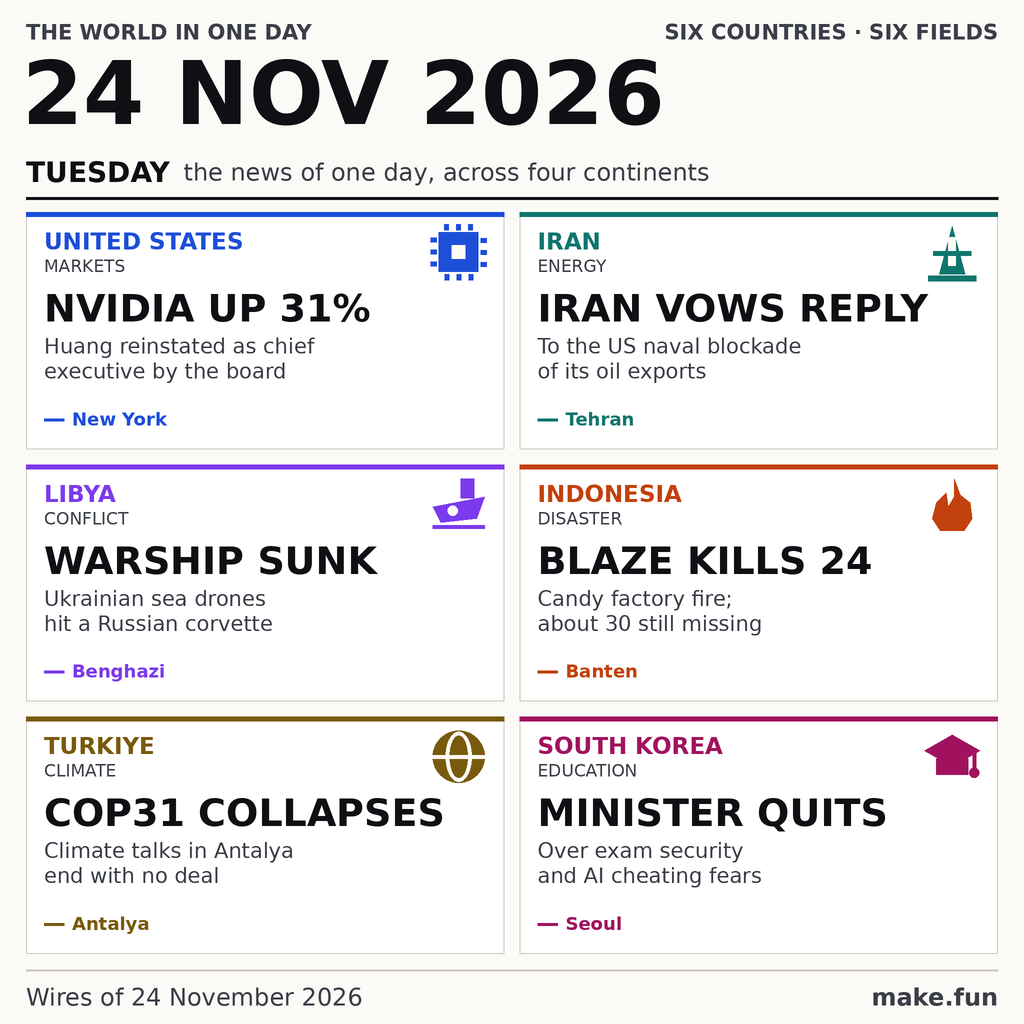
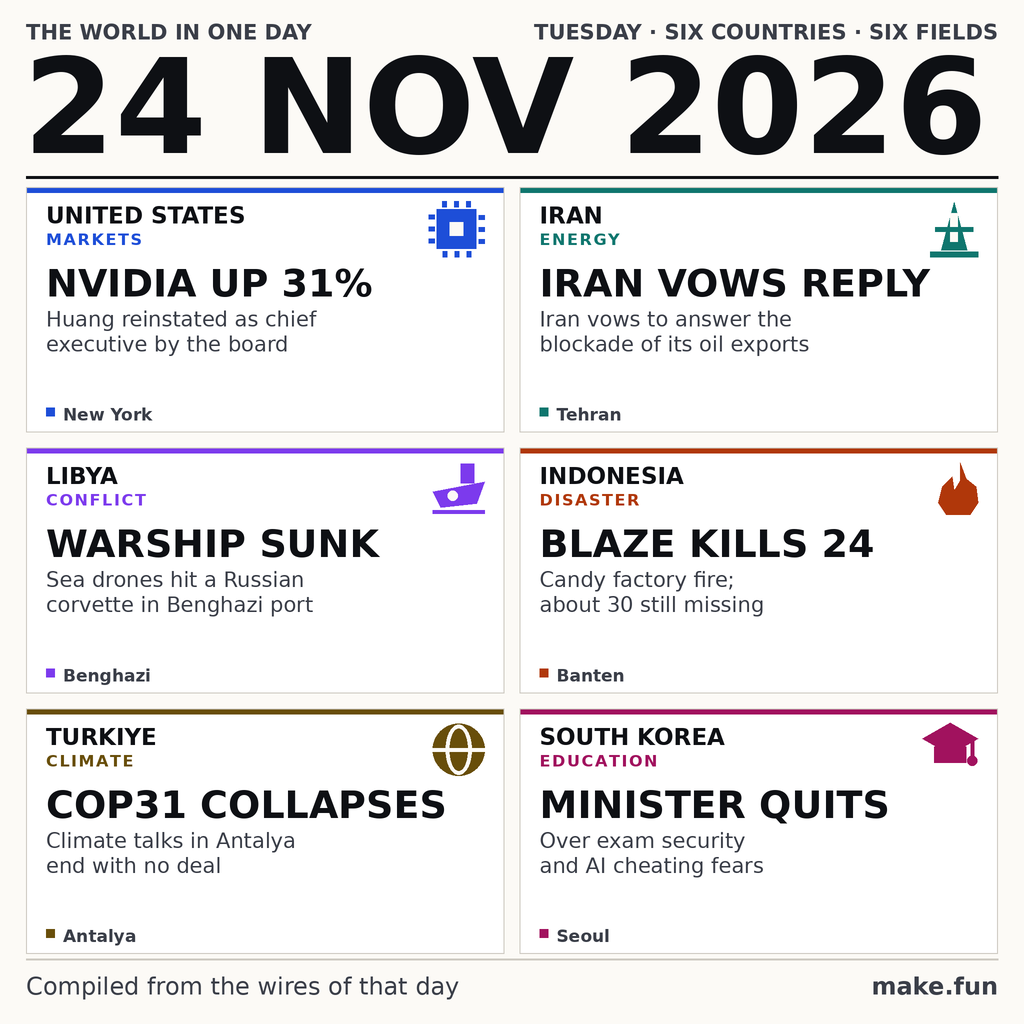
Tighten the front page: fitted masthead, colour-coded fields, measured grid

Changed region(s): [[0.0312, 0.0, 0.9688, 1.0]]

diff --git a/make_entry.py b/make_entry.py
@@ -3,7 +3,7 @@
 
 Tuned to make.fun's sealed judge brief, criterion by criterion:
   1 names the day; every card states an event first carried on 24 Nov 2026
-  2 breadth: six countries on four continents, six different fields
+  2 breadth: six countries on three continents, six different fields
   3 reads alone: a picture plus a short label per story; no card contradicts
     its own label, and every deck names its own country and place
   4 faithful: wires' numbers, no hype, suspicion always marked as suspicion
@@ -157,27 +157,27 @@ def icon_cap(ix, iy, c):
 # city, so no card can contradict itself and each one is anchored twice.
 STORIES = [
     dict(country="UNITED STATES", field="MARKETS", place="New York",
-         colour=(29, 78, 216), icon=icon_chip,
+         colour=(29, 78, 216), icon=icon_chip, ir=56, oy=0,
          head="NVIDIA UP 31%",
          deck="Huang reinstated as chief executive by the board"),
     dict(country="IRAN", field="ENERGY", place="Tehran",
-         colour=(15, 118, 110), icon=icon_derrick,
+         colour=(15, 118, 110), icon=icon_derrick, ir=52, oy=-1,
          head="IRAN VOWS REPLY",
-         deck="To the US naval blockade of its oil exports"),
+         deck="Iran vows to answer the blockade of its oil exports"),
     dict(country="LIBYA", field="CONFLICT", place="Benghazi",
-         colour=(124, 58, 237), icon=icon_ship,
+         colour=(124, 58, 237), icon=icon_ship, ir=54, oy=0,
          head="WARSHIP SUNK",
-         deck="Ukrainian sea drones hit a Russian corvette"),
+         deck="Sea drones hit a Russian corvette in Benghazi port"),
     dict(country="INDONESIA", field="DISASTER", place="Banten",
-         colour=(194, 65, 12), icon=icon_fire,
+         colour=(176, 55, 10), icon=icon_fire, ir=48, oy=-1,
          head="BLAZE KILLS 24",
          deck="Candy factory fire; about 30 still missing"),
     dict(country="TURKIYE", field="CLIMATE", place="Antalya",
-         colour=(120, 90, 12), icon=icon_globe,
+         colour=(104, 78, 10), icon=icon_globe, ir=54, oy=-1,
          head="COP31 COLLAPSES",
          deck="Climate talks in Antalya end with no deal"),
     dict(country="SOUTH KOREA", field="EDUCATION", place="Seoul",
-         colour=(161, 18, 94), icon=icon_cap,
+         colour=(161, 18, 94), icon=icon_cap, ir=56, oy=-6,
          head="MINISTER QUITS",
          deck="Over exam security and AI cheating fears"),
 ]
@@ -185,29 +185,49 @@ STORIES = [
 # --------------------------------------------------------------- masthead
 M = 26
 f_kick = font(F_BOLD, 21)
-f_date = font(F_BOLD, 88)
-f_day = font(F_BOLD, 28)
+
+
+def tracked(x, y, s, f, fill, track=0.0):
+    """Draw text with letter-spacing, so a small label still reads as a label."""
+    cx = x
+    for ch in s:
+        _d.text((sc(cx), sc(y)), ch, font=f, fill=fill, anchor="la")
+        cx += tw(ch, f) + track
+    return cx - x
+
+
+# The date is the largest thing on the page because the judge's first
+# criterion is that the image names its day. It is fitted to the full column
+# width rather than left at a size that leaves the header's right side empty.
+DATE = "24 NOV 2026"
+avail = W - 2 * M
+dsize = 150
+while dsize > 40:
+    f_date = font(F_BOLD, dsize)
+    if tw(DATE, f_date) <= avail:
+        break
+    dsize -= 2
 
 text(M, 20, "THE WORLD IN ONE DAY", f_kick, MID)
-text(W - M, 20, "SIX COUNTRIES \u00b7 SIX FIELDS", f_kick, MID, anchor="ra")
-text(M - 4, 42, "24 NOV 2026", f_date, INK)
-text(M, 156, "TUESDAY", f_day, INK)
-text(M + tw("TUESDAY", f_day) + 14, 158,
-     "the news of one day, across four continents", font(F_REG, 24), MID)
-line(M, 198, W - M, 198, INK, 3)
+text(W - M, 20, "TUESDAY \u00b7 SIX COUNTRIES \u00b7 SIX FIELDS", f_kick, MID,
+     anchor="ra")
+text(M - 3, 30, DATE, f_date, INK)
+_bb = _d.textbbox((sc(M - 3), sc(30)), DATE, font=f_date)
+rule_y = _bb[3] / S + 22
+line(M, rule_y, W - M, rule_y, INK, 3)
 
 # --------------------------------------------------------------- grid
-TOP = 212
+TOP = rule_y + 10
 GUT = 15
 COLS, ROWS = 2, 3
 CW = (W - 2 * M - GUT) / COLS
 CHH = (H - TOP - M - 44 - GUT * (ROWS - 1)) / ROWS
 
 f_country = font(F_BOLD, 23)
-f_field = font(F_REG, 17)
+f_field = font(F_BOLD, 16)
 f_head = font(F_BOLD, 38)
 f_deck = font(F_REG, 21)
-f_place = font(F_BOLD, 18)
+f_place = font(F_BOLD, 17)
 
 HEAD_LH, DECK_LH = 42, 25
 
@@ -215,14 +235,18 @@ for i, st in enumerate(STORIES):
     cx = M + (i % COLS) * (CW + GUT)
     cy = TOP + i // COLS * (CHH + GUT)
     rect(cx, cy, cx + CW, cy + CHH, fill=CARD, outline=RULE, w=1)
-    rect(cx, cy, cx + CW, cy + 5, fill=st["colour"])
+    # Inset by one pixel so the card's own hairline still closes the corner
+    # instead of being painted over by the colour bar.
+    rect(cx + 1, cy + 1, cx + CW - 1, cy + 6, fill=st["colour"])
 
-    pad = 18
-    text(cx + pad, cy + 16, st["country"], f_country, st["colour"])
-    text(cx + pad, cy + 44, st["field"], f_field, MID)
-    st["icon"](cx + CW - pad - 56, cy + 12, st["colour"])
+    pad = 20
+    text(cx + pad, cy + 15, st["country"], f_country, INK)
+    # The field is the page's premise ("six fields"), so it carries the card's
+    # colour: the hue now labels the taxonomy instead of repeating the country.
+    tracked(cx + pad, cy + 43, st["field"], f_field, st["colour"], track=1.6)
+    st["icon"](cx + CW - pad - st["ir"], cy + 14 + st["oy"], st["colour"])
 
-    # A headline band fixed at two lines: no headline can leave a stub word
+    # A headline band fixed at one line: no headline can leave a stub word
     # stranded on a line of its own, and no card's text block starts lower
     # than another's.
     hy = cy + 74
@@ -232,23 +256,23 @@ for i, st in enumerate(STORIES):
 
     # A deck band also fixed at two lines, so every dateline in the grid sits
     # on the same baseline instead of drifting with the deck's length.
-    dy = hy + HEAD_LH + 6
+    dy = hy + HEAD_LH + 4
     dl = wrap(st["deck"], f_deck, CW - 2 * pad, 2, st["deck"], balance=True)
     for k, ln in enumerate(dl):
         text(cx + pad, dy + k * DECK_LH, ln, f_deck, MID)
 
-    py = cy + CHH - 30
+    py = cy + CHH - 28
     if dy + 2 * DECK_LH > py - 6:
         WARN.append(f"{st['head']!r}: deck band ends at "
                     f"{dy + 2 * DECK_LH - cy:.0f}, dateline at {py - cy:.0f}")
-    line(cx + pad, py, cx + pad + 20, py, st["colour"], 3)
-    text(cx + pad + 28, py - 11, st["place"], f_place, st["colour"])
+    rect(cx + pad, py + 3, cx + pad + 9, py + 12, fill=st["colour"])
+    text(cx + pad + 17, py, st["place"], f_place, MID)
 
 # --------------------------------------------------------------- footer
-fy = H - M - 15
+fy = H - M - 26
 line(M, fy - 13, W - M, fy - 13, RULE, 2)
 f_foot = font(F_REG, 24)
-text(M, fy, "Wires of 24 November 2026", f_foot, MID)
+text(M, fy, "Compiled from the wires of that day", f_foot, MID)
 text(W - M, fy, "make.fun", font(F_BOLD, 24), MID, anchor="ra")
 
 out = _img.resize((W, H), Image.LANCZOS)
@@ -256,6 +280,72 @@ dest = os.environ.get("ENTRY_OUT", "entry.png")
 out.save(dest, "PNG", optimize=True)
 size = os.path.getsize(dest)
 print(f"wrote {dest}  {W}x{H}  {size} bytes")
+
+# --------------------------------------------------------------- audit
+# Measure the rendered pixels instead of trusting the layout code: an ink
+# bounding box per margin band tells us whether the page is actually
+# centred, whether any glyph leaked past a card's inner edge, and whether
+# the six icon right edges really line up.
+def ink_bbox(box):
+    return out.crop(box).convert("L").point(lambda v: 255 if v < 200 else 0).getbbox()
+
+
+def ink_bounds(box):
+    b = ink_bbox(box)
+    if not b:
+        return None
+    x0, y0, x1, y1 = box
+    return (x0 + b[0], y0 + b[1], x0 + b[2], y0 + b[3])
+
+
+# Margins: the ink must sit inside M on all four sides, with the left and
+# right margins equal to each other and to the top and bottom by design.
+grid = ink_bounds((0, 0, W, H))
+print(f"ink box            {grid}")
+if grid:
+    print(f"margins            L{grid[0]} R{W - grid[2]} T{grid[1]} B{H - grid[3]}")
+    if abs(grid[0] - (W - grid[2])) > 2:
+        WARN.append(f"left margin {grid[0]} != right margin {W - grid[2]}")
+    for name, val in (("left", grid[0]), ("right", W - grid[2]),
+                      ("top", grid[1]), ("bottom", H - grid[3])):
+        if val < 18:
+            WARN.append(f"{name} margin {val}px is under 18px")
+
+# Card interior: nothing may be drawn in the 2px channel just inside each
+# card's border, which is where a text block overrunning its column shows up.
+for i, st in enumerate(STORIES):
+    cx = M + (i % COLS) * (CW + GUT)
+    cy = TOP + i // COLS * (CHH + GUT)
+    inner = (int(cx + 3), int(cy + 9), int(cx + CW - 3), int(cy + CHH - 3))
+    b = ink_bbox(inner)
+    if b and (b[2] - b[0] > inner[2] - inner[0] - 2
+              or b[3] - b[1] > inner[3] - inner[1] - 2):
+        WARN.append(f"{st['head']!r}: content reaches the card border")
+
+# Icon alignment: the six glyphs must share one right edge and one baseline.
+rights, tops = [], []
+for i, st in enumerate(STORIES):
+    cx = M + (i % COLS) * (CW + GUT)
+    cy = TOP + i // COLS * (CHH + GUT)
+    pad = 20
+    band = (int(cx + CW - pad - 70), int(cy + 8), int(cx + CW - pad + 2),
+            int(cy + 70))
+    b = ink_bbox(band)
+    if b:
+        # measured against this card's own right edge, since the two grid
+        # columns naturally sit at different absolute x
+        rights.append(round(cx + CW - (band[0] + b[2])))
+        tops.append(round(band[1] + b[1] - cy))
+    else:
+        WARN.append(f"{st['head']!r}: no icon ink found in its corner")
+if rights:
+    print(f"icon inset from card right edge  {rights}  spread={max(rights) - min(rights)}px")
+    print(f"icon top offset from card top    {tops}  spread={max(tops) - min(tops)}px")
+    if max(rights) - min(rights) > 2:
+        WARN.append(f"icon right edges differ by {max(rights) - min(rights)}px")
+    if max(tops) - min(tops) > 3:
+        WARN.append(f"icon top edges differ by {max(tops) - min(tops)}px")
+
 if size > 1048576:
     WARN.append(f"file is {size} bytes, over the 1048576 limit")
 for w in WARN:
